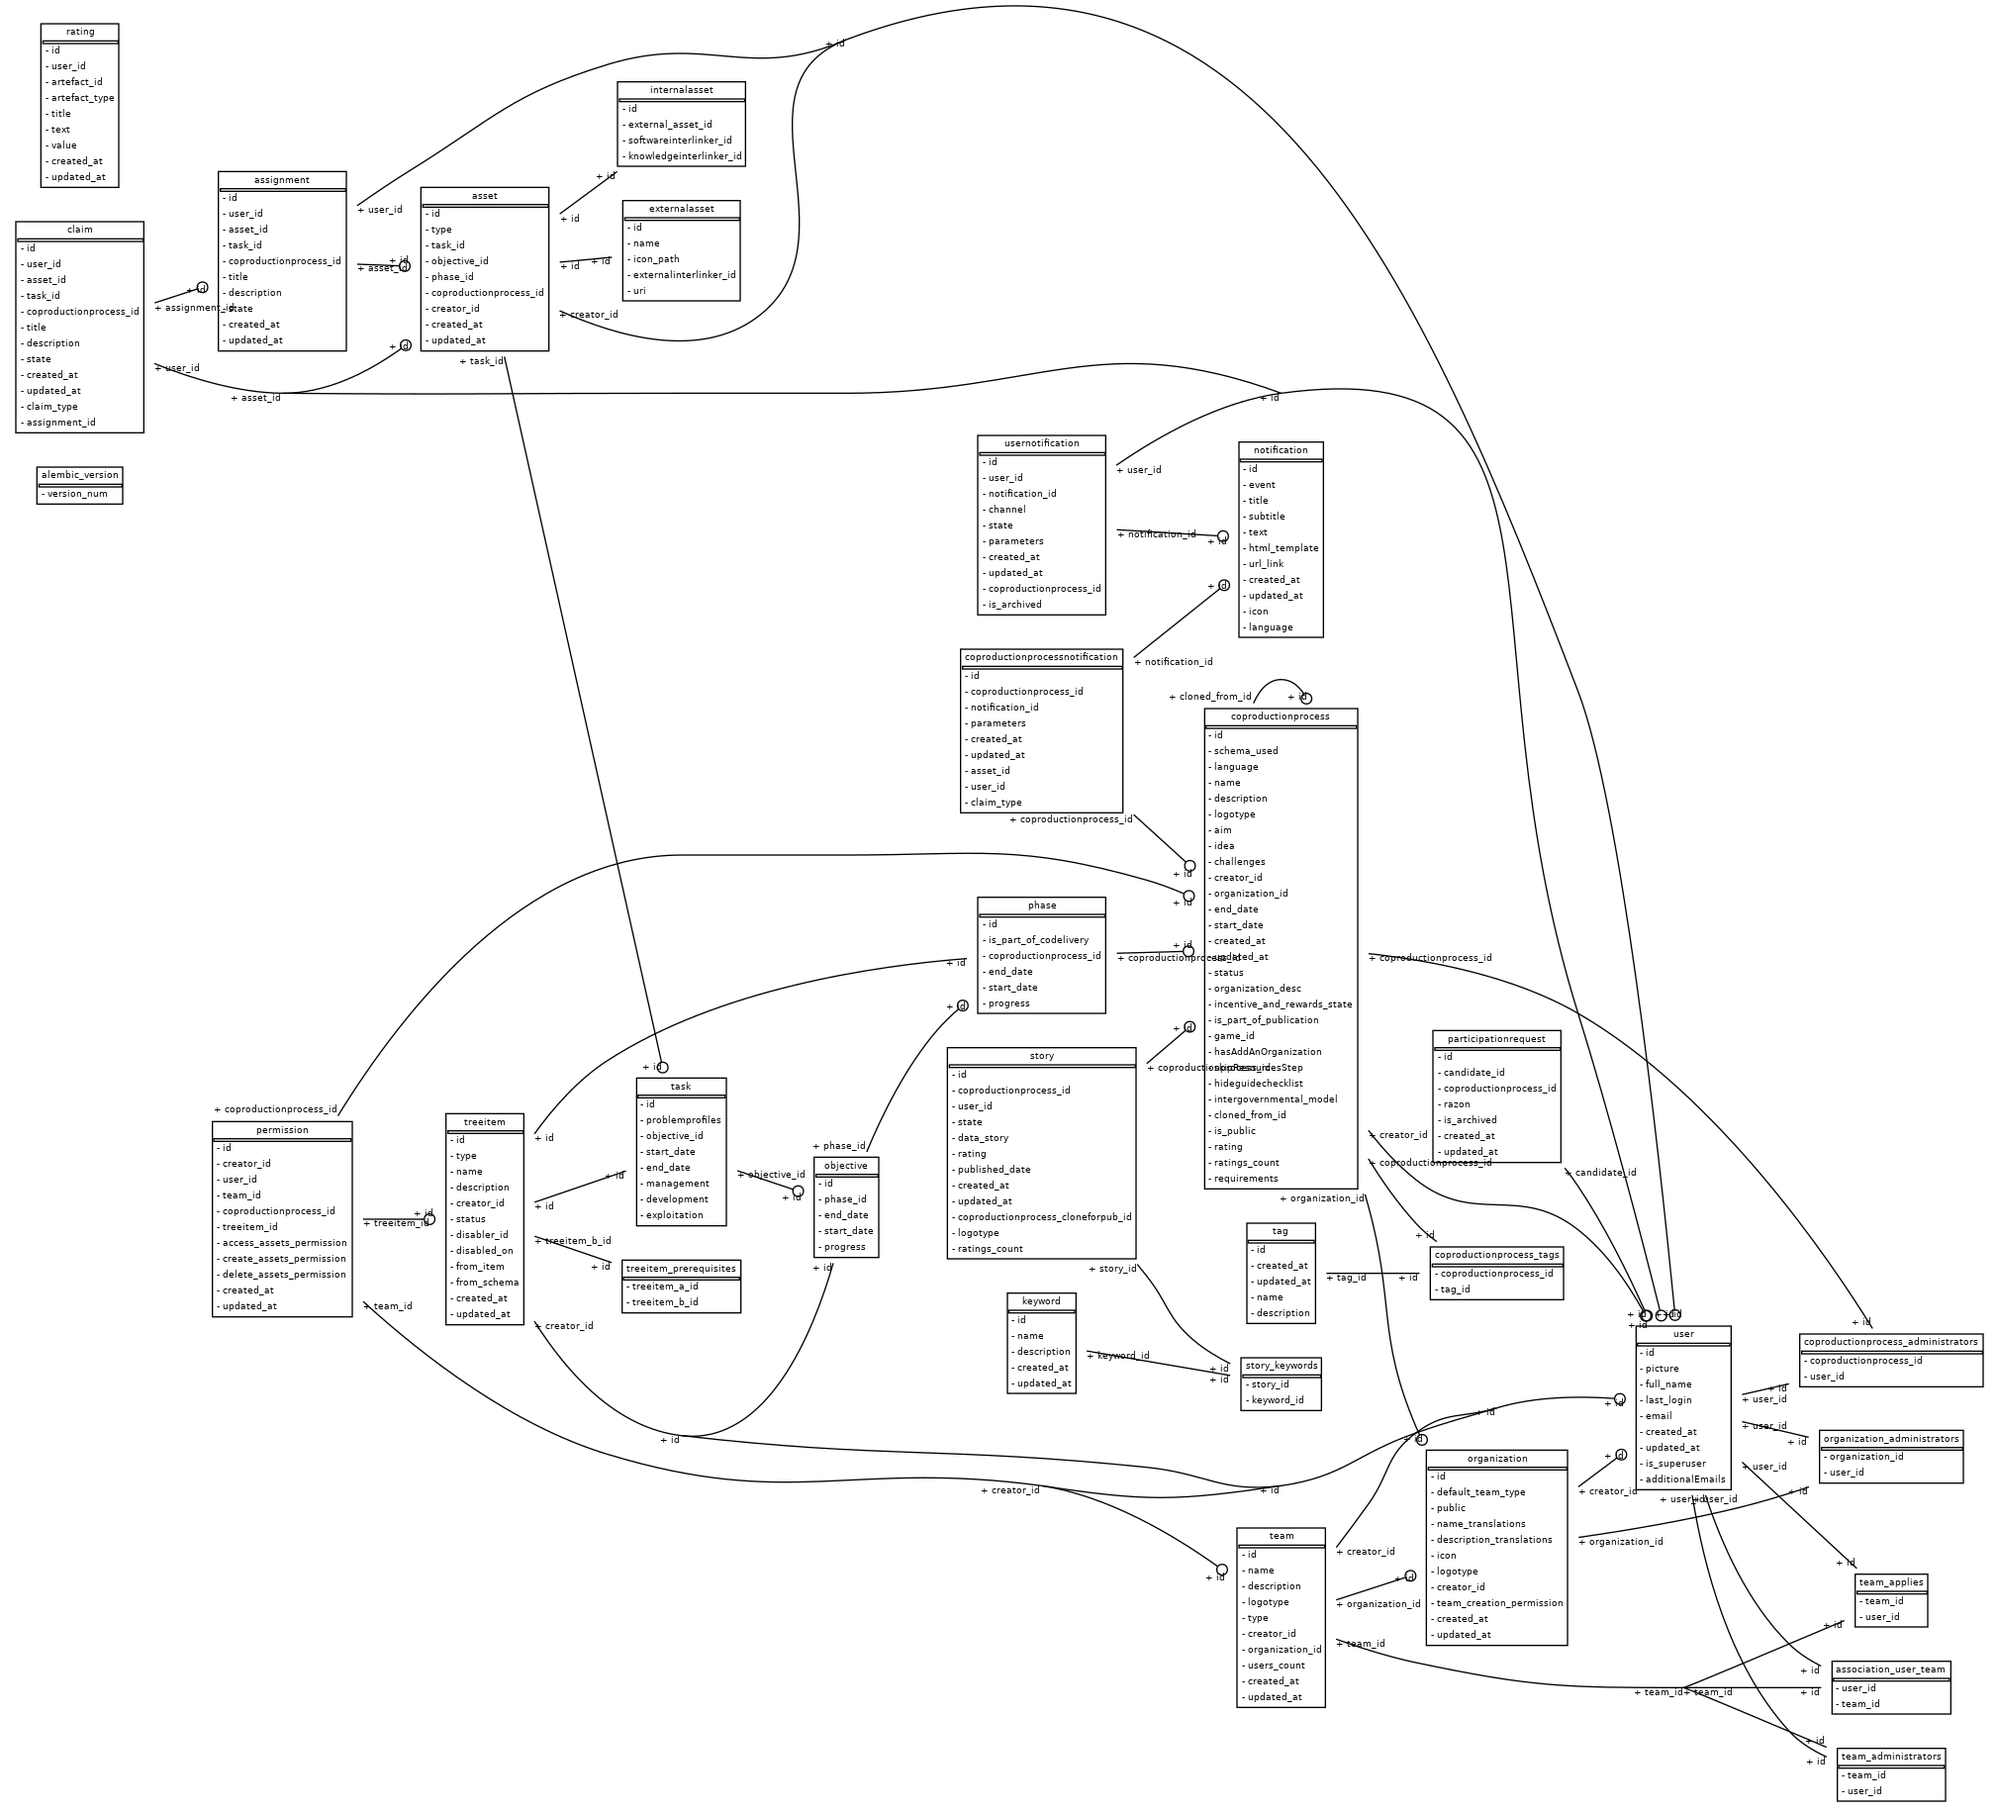
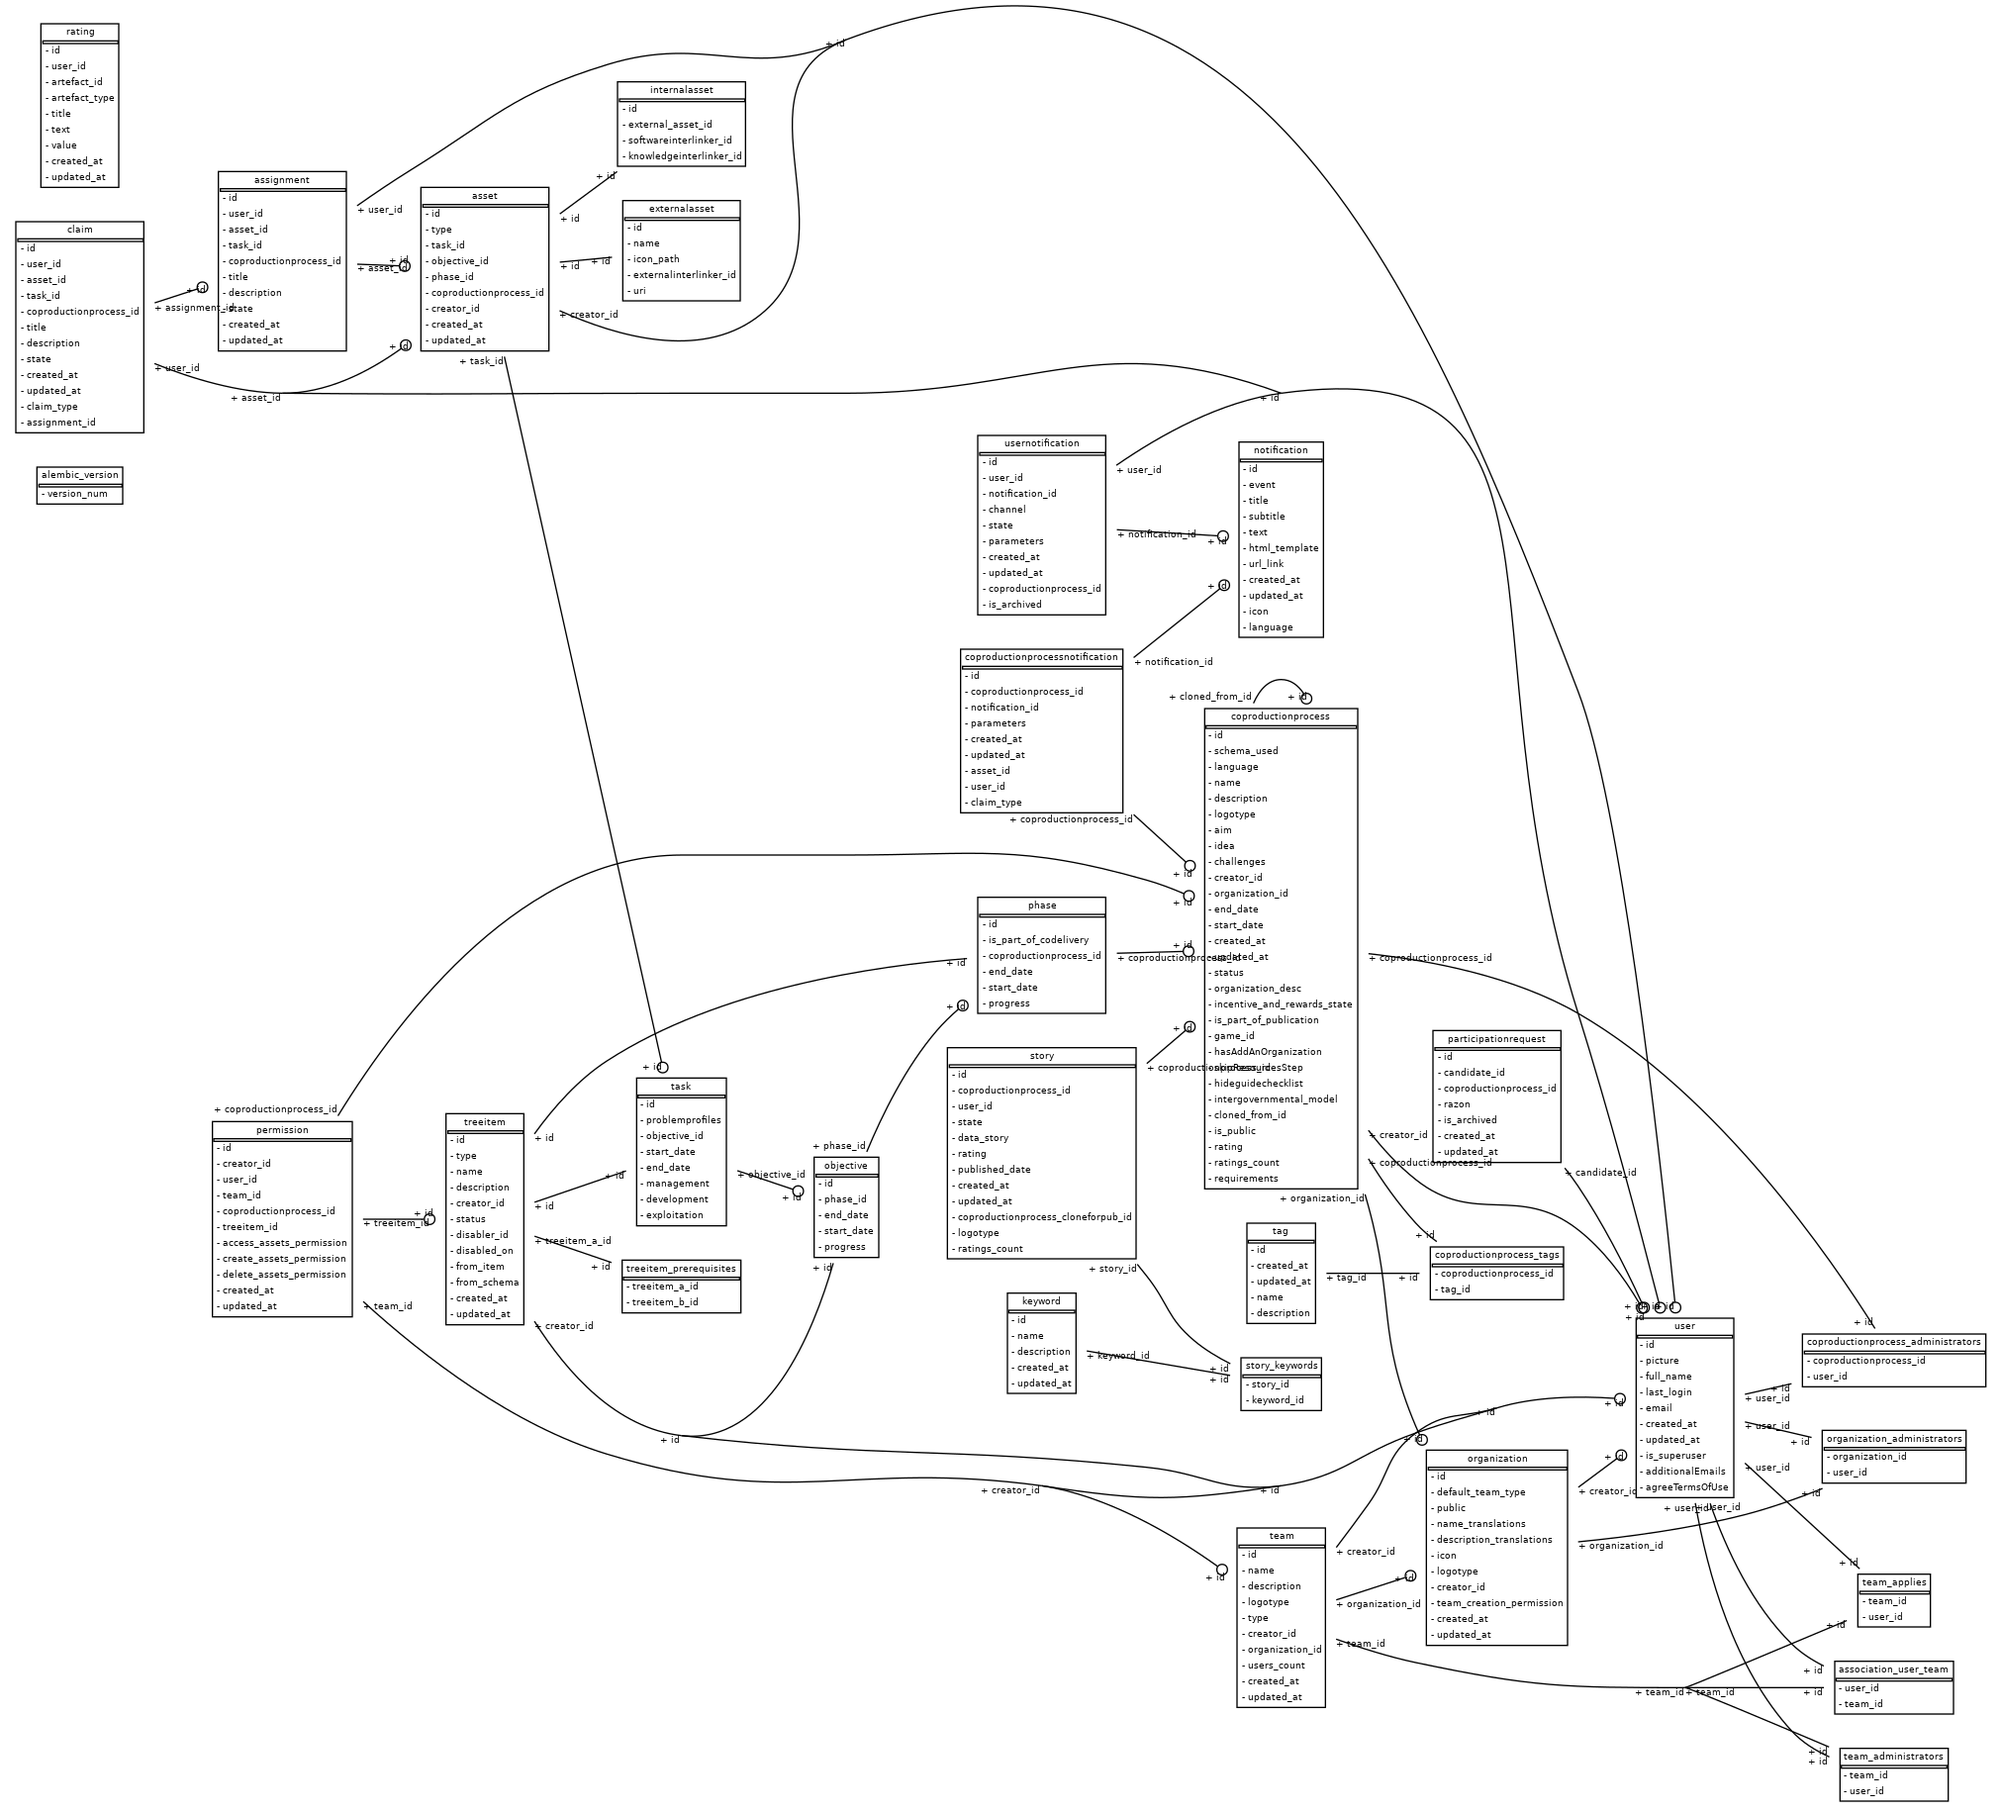
agreeTermsOfUse added

diff --git a/coproduction/app/api/api_v1/users.py b/coproduction/app/api/api_v1/users.py
@@ -58,3 +58,40 @@ async def websocket_endpoint(
             data = await websocket.receive_text()
     except WebSocketDisconnect:
         socket_manager.disconnect(websocket, id)
+
+
+@router.put("/agree-terms", response_model=schemas.UserOutFull)
+async def agreeTerms(
+    *,
+    db: Session = Depends(deps.get_db),
+    current_user: models.User = Depends(deps.get_current_active_user),
+) -> Any:
+    """
+    Update a user's record to indicate agreement to terms.
+    """
+    user = await crud.user.get(db=db, id=current_user.id)
+
+    user_patch = {"agreeTermsOfUse": True}
+    
+    if not user:
+        raise HTTPException(
+            status_code=404, detail="User not found")
+    return await crud.user.update(db=db, db_obj=user, obj_in=user_patch)
+
+
+@router.put("/refuse-terms", response_model=schemas.UserOutFull)
+async def agreeTerms(
+    *,
+    db: Session = Depends(deps.get_db),
+    current_user: models.User = Depends(deps.get_current_active_user),
+) -> Any:
+    """
+    Update a user's record to indicate agreement to terms.
+    """
+    user = await crud.user.get(db=db, id=current_user.id)
+
+    user_patch = {"agreeTermsOfUse": True}
+    if not user:
+        raise HTTPException(
+            status_code=404, detail="User not found")
+    return await crud.user.update(db=db, db_obj=user, obj_in=user_patch)

diff --git a/coproduction/alembic/versions/c8c8ea7e58fe_agreetermsofuse.py b/coproduction/alembic/versions/c8c8ea7e58fe_agreetermsofuse.py
@@ -1,0 +1,28 @@
+"""agreeTermsOfUse
+
+Revision ID: c8c8ea7e58fe
+Revises: 990a22e75e5e
+Create Date: 2024-05-31 12:09:40.589909
+
+"""
+from alembic import op
+import sqlalchemy as sa
+
+
+# revision identifiers, used by Alembic.
+revision = 'c8c8ea7e58fe'
+down_revision = '990a22e75e5e'
+branch_labels = None
+depends_on = None
+
+
+def upgrade():
+    # ### commands auto generated by Alembic - please adjust! ###
+    op.add_column('user', sa.Column('agreeTermsOfUse', sa.Boolean(), nullable=True))
+    # ### end Alembic commands ###
+
+
+def downgrade():
+    # ### commands auto generated by Alembic - please adjust! ###
+    op.drop_column('user', 'agreeTermsOfUse')
+    # ### end Alembic commands ###

diff --git a/coproduction/app/users/models.py b/coproduction/app/users/models.py
@@ -18,6 +18,8 @@ class User(BaseModel):
     teams_ids = association_proxy('teams', 'id')
     administered_teams_ids = association_proxy('administered_teams', 'id')
 
+    agreeTermsOfUse = Column(Boolean, default=False)
+
     user_notification_associations = relationship(
         "UserNotification",
         back_populates="user",

diff --git a/coproduction/app/users/schemas.py b/coproduction/app/users/schemas.py
@@ -11,6 +11,7 @@ class UserBase(BaseModel):
     last_login: datetime = datetime.now()
     email: Optional[str]
     additionalEmails: Optional[List[str]]
+    agreeTermsOfUse: Optional[bool]
 
 class UserCreate(UserBase):
     id: str
